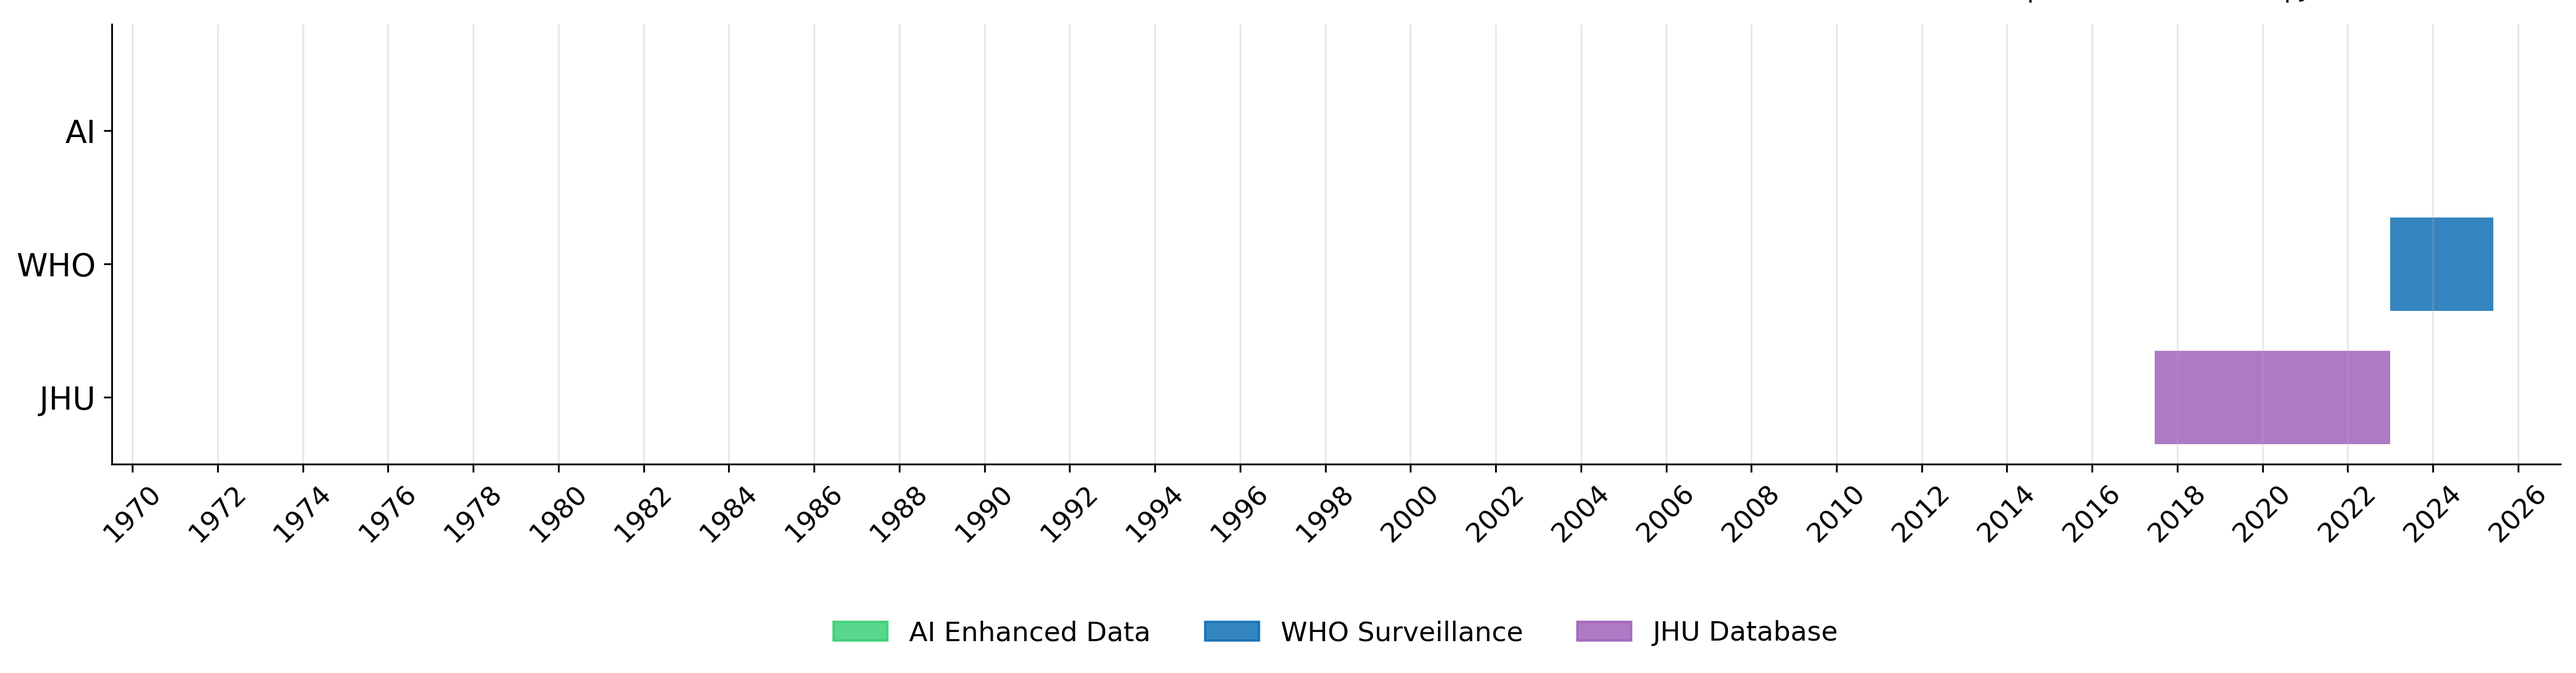
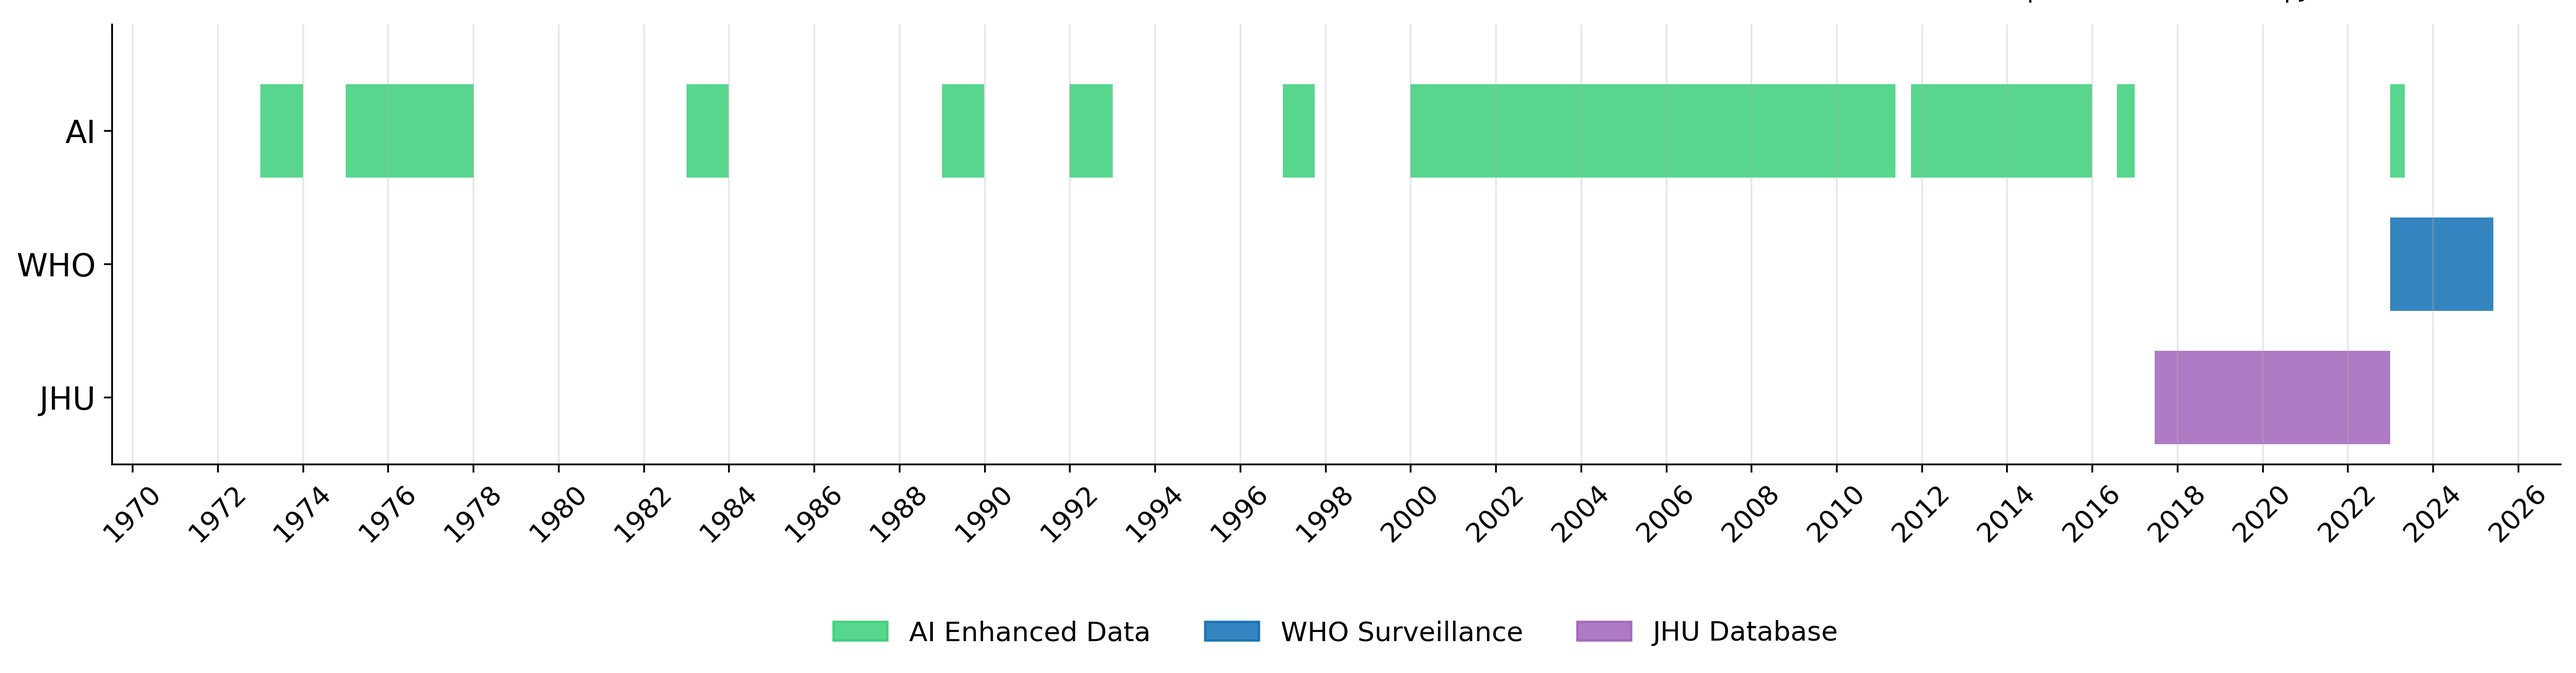
Auto-update dashboard data - 2025-07-24 09:56:53 - Generated with Claude Code

diff --git a/dashboard/dashboard.html b/dashboard/dashboard.html
@@ -1912,7 +1912,7 @@
                 "country": "Liberia",
                 "iso": "LBR",
                 "status": "PENDING",
-                "datetime": "2025-07-24 09:12:41",
+                "datetime": "2025-07-24 09:34:05",
                 "sources": 8,
                 "observations": 11,
                 "date_range": "2002-2011",
@@ -1920,7 +1920,7 @@
                 "execution_time": 0,
                 "queries": 0,
                 "yield_pct": 0.0,
-                "notes": "Agent 2 completed; 11 data observations"
+                "notes": "Agent 5 completed; 11 data observations | Manual: Agent 2 completed; 11 data observations"
         },
         {
                 "country": "Mali",
@@ -1940,15 +1940,15 @@
                 "country": "Mozambique",
                 "iso": "MOZ",
                 "status": "PENDING",
-                "datetime": "2025-07-24 09:14:38",
-                "sources": 0,
-                "observations": 0,
-                "date_range": "",
-                "priority": "",
+                "datetime": "2025-07-24 09:55:43",
+                "sources": 21,
+                "observations": 37,
+                "date_range": "1973-2023",
+                "priority": "LOW",
                 "execution_time": 0,
                 "queries": 0,
                 "yield_pct": 0.0,
-                "notes": "Agent 1 initialized - starting work | Manual: No activity detected"
+                "notes": "Agent 4 completed; 37 data observations | Manual: No activity detected"
         },
         {
                 "country": "Mauritania",
@@ -3009,7 +3009,7 @@ Equatorial Guinea,GNQ,2350,0,0
 Kenya,KEN,1339,125,320
 Liberia,LBR,262,0,431
 Mali,MLI,1639,0,378
-Mozambique,MOZ,0,125,287
+Mozambique,MOZ,1261,125,287
 Mauritania,MRT,0,0,171
 Malawi,MWI,0,118,158
 Namibia,NAM,0,0,0
